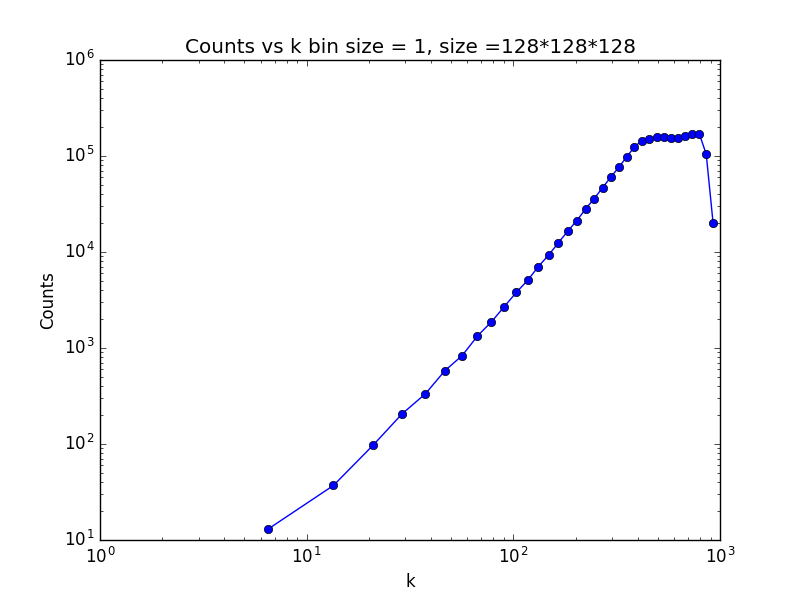
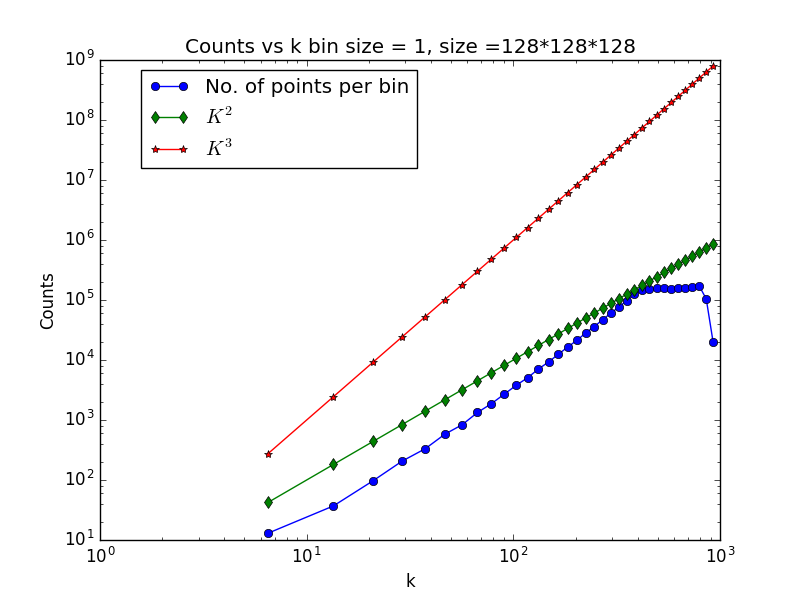
Playing around with bin size

diff --git a/real_power_spectra.py b/real_power_spectra.py
@@ -72,10 +72,13 @@ for filenumber in xrange(3,4):
     #Take bins of a certain size, and add up values corresponding to thse bins
 
     index=0
+    no_bins=100
+    r_bin=np.power(np.ndarray.max(K_rad[:,0]),float(1)/no_bins)
+    k_max=2*bin_size*np.pi-bin_size*np.pi
     K_avg=np.empty([0,2],dtype=float)
-    for i in xrange(1,int((1/bin_size)*np.sqrt(np.sum(np.square(n/2))))):
-        k_min=2*bin_size*np.pi*i-bin_size*np.pi
-        k_max=2*bin_size*np.pi*i+bin_size*np.pi
+    for i in xrange(1,no_bins):
+        k_min=k_max
+        k_max=k_max+2*bin_size*np.pi*r_bin**i
         E=0
         for j in xrange(index,np.size(K_rad[:,0])):
             if K_rad[:,0][j]<k_max:

diff --git a/binning_check.py b/binning_check.py
@@ -62,9 +62,14 @@ for i in xrange(1,no_bins):
 np.savetxt('points_per_bin'+str(bin_size*10)+'_'+str(n[0])+'.txt',K_avg)
 
 #Plot the data 
+fig, ax = plt.subplots()
 
-plt.figure()
-plt.loglog(K_avg[:,0],K_avg[:,1],'o-')
+ax.plot(K_avg[:,0],K_avg[:,1],'o-',label='No. of points per bin')
+ax.plot(K_avg[:,0],K_avg[:,0]**2,'d-',label='$K^2$')
+ax.plot(K_avg[:,0],K_avg[:,0]**3,'*-',label='$K^3$')
+ax.set_yscale('log')
+ax.set_xscale('log')
+leg = ax.legend(loc=2, bbox_to_anchor=(0.05, 1.0))
 plt.xlabel('k')
 plt.ylabel('Counts')
 
